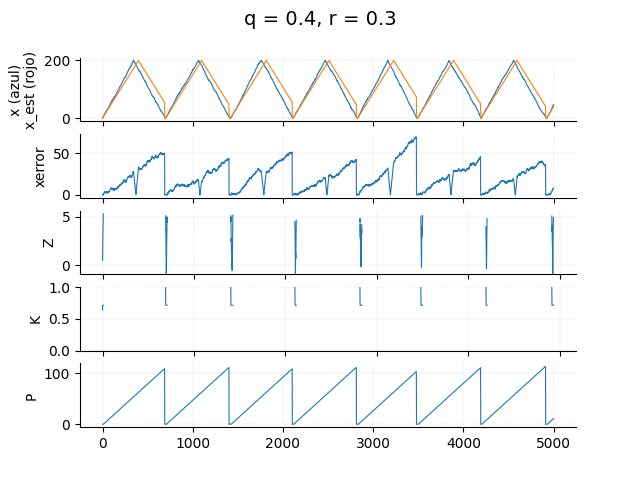
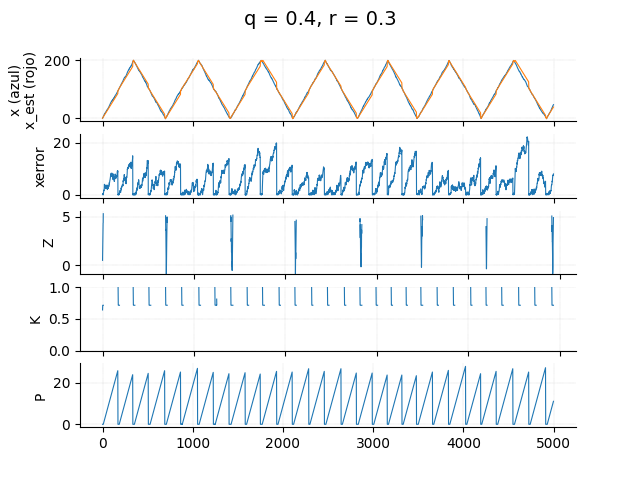
Incluyo varios landmarks

diff --git a/localizacion.py b/localizacion.py
@@ -118,8 +118,8 @@ def localizacion_FK(q, r, rango_sensor, dist, t_max, seeds):
         K = np.array([[0, 0],
                       [0, 0]])  # 2x2 para (x,y)
 
-        # Landmark al principio del pasillo (izquierda)
-        m0 = 0
+        # Landmarks definidos respecto del origen
+        m = [0, 100, 200]
 
         estados.append(pd.DataFrame(data={'x': [], 'xest': [], 'xerror': [], 'p': [], 'z': [], 'K': [], 'q': [], 'r': []}))
 
@@ -161,17 +161,25 @@ def localizacion_FK(q, r, rango_sensor, dist, t_max, seeds):
 
             correccion = False
 
-            if (math.fabs(x[0][0] - m0) < rango_sensor):  # si se detecta el landmark
-                # Actualizamos la observación (con ruido)
-                z0 = np.array([[x[0][0] + r2 * (r**0.5)], [0]])
-                correccion = True
-            else:
-                z0 = np.array([[math.nan], [0]])
+            z = []
+            for mi in m:
+                if (math.fabs(x[0][0] - mi) < rango_sensor):  # si se detecta el landmark
+                    # Actualizamos la observación (con ruido)
+                    foo = np.array([[x[0][0] + r2 * (r**0.5)], [0]])
+                    correccion = True
+                else:
+                    foo = np.array([[math.nan], [0]])
+                z.append(foo)
 
-            # Corrección basada en z0, solo si se detectó algún landmark
+            # Corrección basada en z0, sólo si se detectó algún landmark
             if (correccion):
                 # Actualización de la medición (innovación)
-                innov = z0 - H * x_est
+                innov = points = 0
+                for zi in z:
+                    if not math.isnan(zi[0]):
+                        innov += zi - H * x_est
+                        points += 1
+                innov /= points         #Hago la media
 
                 # Ganancia de Kalman
                 K = P * np.transpose(H) * inv(H * P * np.transpose(H) + R)
@@ -186,7 +194,7 @@ def localizacion_FK(q, r, rango_sensor, dist, t_max, seeds):
                               [ 0, 0]])  # 2x2 para (x,y)
 
             fila = {'x': [x[0][0]], 'xest': [x_est[0][0]], 'xerror': [math.fabs(x[0][0] - x_est[0][0])], 'p': [P[0][0]],
-                    'z': [z0[0][0]], 'K': [K[0][0]], 'q': [q], 'r': [r]}
+                    'z': [z[0][0]], 'K': [K[0][0]], 'q': [q], 'r': [r]}
             estados[i] = pd.concat([estados[i], pd.DataFrame(fila)], ignore_index=True)
 
     return estados

diff --git a/main.py b/main.py
@@ -13,6 +13,8 @@ seeds = [123456789]
 
 q_set = [0.2, 0.4, 0.5, 0.7]
 r_eval = [0.2, 0.3, 0.4, 0.8]
+#q_set = [0.8]
+#r_eval = [0.7]
 rango_set = [5]
 
 with open('log.csv','w', newline='') as file:

diff --git a/plots.py b/plots.py
@@ -35,6 +35,7 @@ def plot_estados(estados, q, r, file=None, ymax=None):
         plt.show()
     else:
         plt.savefig(file)
+    plt.close()
 
     
 
